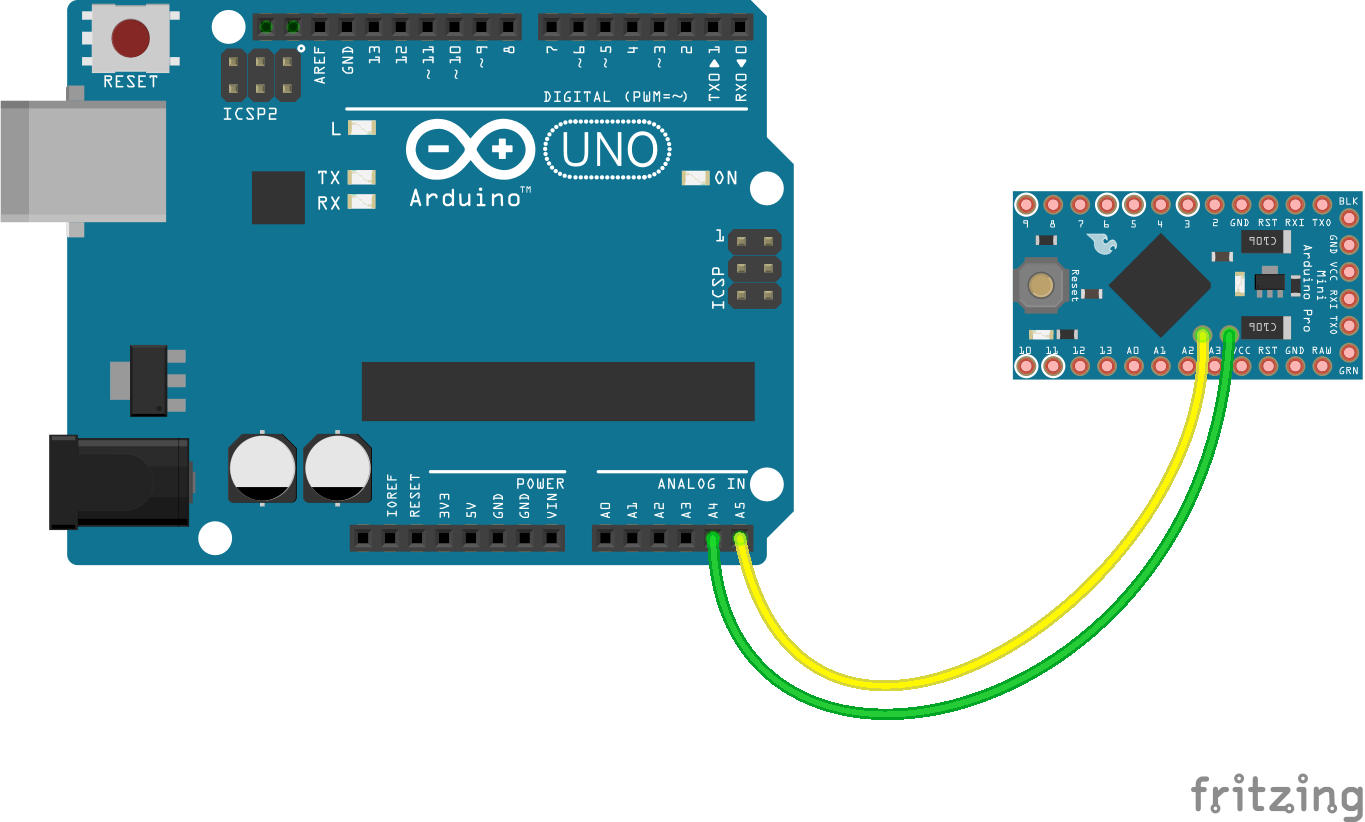
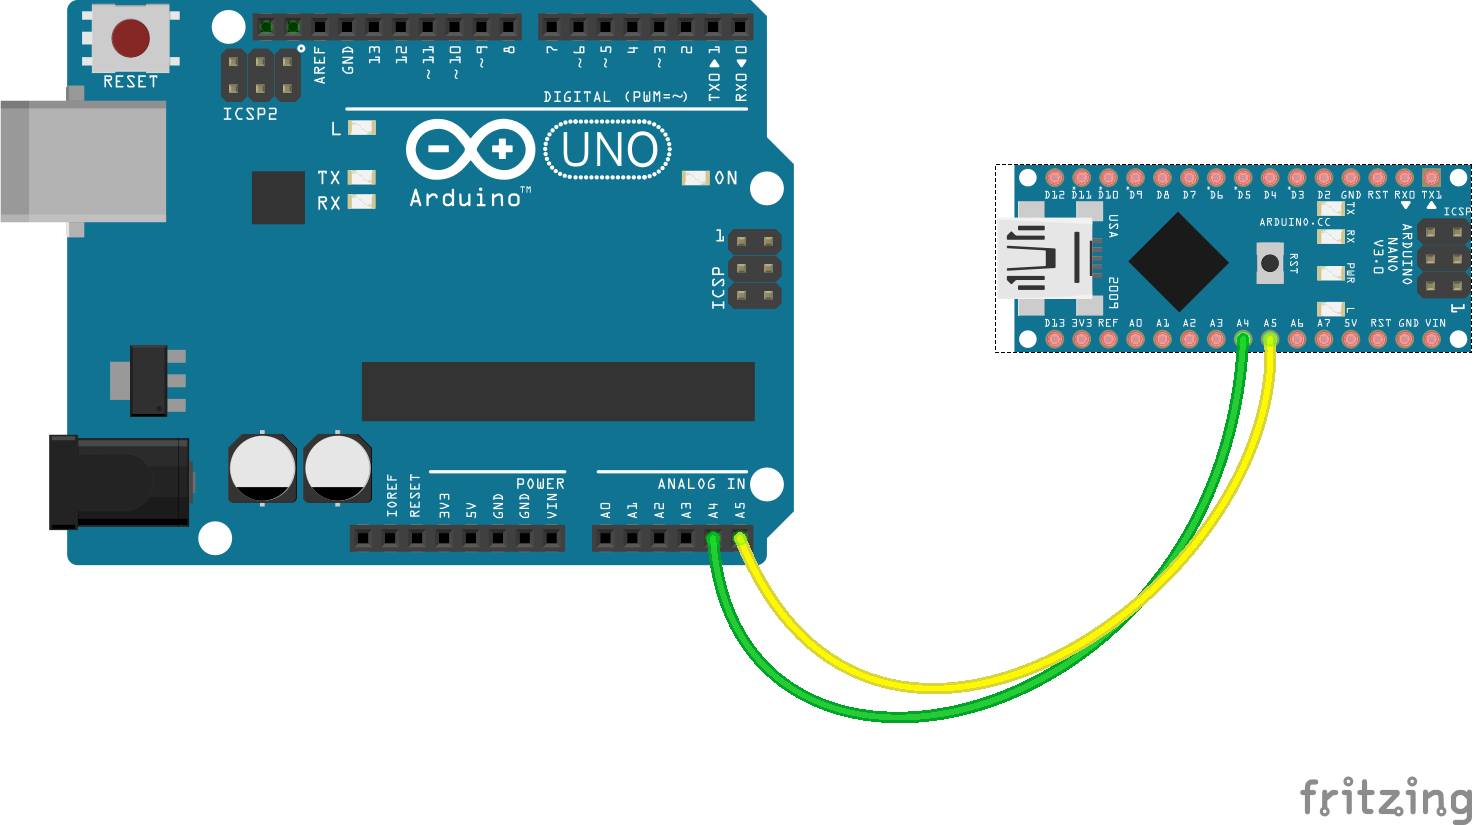
Finish up backpack blogpost

Changed region(s): [[0.0308, 0.0, 1.0, 0.882], [0.8615, 0.9428, 1.0, 1.0]]

diff --git a/_dist/2015/08/20/beginners-guide-to-backpacks/index.html b/_dist/2015/08/20/beginners-guide-to-backpacks/index.html
@@ -262,25 +262,25 @@ footer a { color: white; }
 
 <p>Backpacks are AVRs, or microcontollers, that run a special firmware designed to operate the component and communicate with Johnny-Five. The firmware is standard C++ or Arduino code with an additional layer for sending and receiving commands over I<sup>2</sup>C. Because much of the processing and data handling is done in Johnny-Five, this firmware tends to be much smaller than an equivalent program written entirely in C++. This means we can use much smaller AVRs.</p>
 
-<p>While many of these backpacks could be little more than an ATtiny85, smaller Arduinos like the Arduino Pro Mini or Arduino Nano are a little more user-friendly. You can get these Arduinos for as little as $3, you don’t have to worry about wiring, and you get a free Arduino-compatible bootloader.</p>
+<p>While many of these backpacks could be little more than an ATtiny85, smaller Arduinos like the Arduino Pro Mini or Arduino Nano are a little more user-friendly. You can get these Arduinos for as little as $2, you don’t have to worry about wiring, and you get a free Arduino-compatible bootloader.</p>
 
 <h2 id="why-backpacks">Why backpacks?</h2>
 
 <p>Historically things like NeoPixels and Ping sensors have required a custom version of Firmata, and were mostly not supported on platforms other than Arduino. If you had a project where you wanted NeoPixels <em>and</em> Ping sensors, you were stuck writing your own C++ library. Johnny-Five wants you to write JavaScript, not C++.</p>
 
-<p>With backpacks you’ll never need a custom Firmata, and your components will work on any platform that supports I<sup>2</sup>C (<a href="http://johnny-five.io/platform-support/">most of them do</a>). Each backpack has its own firmware, which means you can run as many different components as you can fit on an I<sup>2</sup>C bus–which is a lot.</p>
+<p>With backpacks you’ll never need a custom Firmata, and your components will work on any platform that supports I<sup>2</sup>C (<a href="http://johnny-five.io/platform-support/">most of them do</a>). Each backpack has its own firmware, which means you can run as many different components as you can fit on an I<sup>2</sup>C bus (which is a lot).</p>
 
 <h2 id="how-do-they-work">How do they work?</h2>
 
-<p>To demonstrate how backpacks work, let’s take a look at <a href="https://github.com/ajfisher/node-pixel">node-pixel</a>. Node-pixel is a library for controlling NeoPixels with JavaScript. It’s amazing. For this demo we’ll keep things simple and use an Arduino Uno as our host, and an Arduino Pro Mini as our backpack.</p>
+<p>To demonstrate how backpacks work, let’s take a look at <a href="https://github.com/ajfisher/node-pixel">node-pixel</a>. Node-pixel is a library for controlling NeoPixels with JavaScript. It’s amazing. For this demo we’ll keep things simple and use an Arduino Uno as our host, and an Arduino Nano as our backpack.</p>
 
 <h3 id="load-the-firmware">Load the firmware</h3>
 
-<p>First we need to load the firmware onto the backpack. If you’ve loaded a sketch onto and Arduino before, you know exactly what to do. In the Arduino IDE open <code>node-pixel/firmware/build/backpack/backpack.ino</code>, make sure you’ve got your board and port right, and upload the sketch.</p>
+<p>First we need to load the firmware onto the backpack. If you’ve loaded a sketch onto an Arduino before, you know exactly what to do. In the Arduino IDE open <code>node-pixel/firmware/build/backpack/backpack.ino</code>, make sure you’ve got your board and port right, and upload the sketch to the Arduino Nano.</p>
 
 <h3 id="attach-the-backpack">Attach the backpack</h3>
 
-<p>The next step is to wire up the backpack. First you need to connect I<sup>2</sup>C pins. Connect SDA on the host microcontroller to SCL on the backpack, then connect SCL on the host microcontroller to SDA on the backpack. On most Arduino and Arduino-compatible boards SDA is pin A4, and SCL is pin A5, but check the pinout for you board if you’re not sure.</p>
+<p>The next step is to wire up the backpack. First you need to connect I<sup>2</sup>C pins. Connect SDA on the host microcontroller to SDA on the backpack, then connect SCL on the host microcontroller to SCL on the backpack. On most Arduino and Arduino-compatible boards SDA is pin A4, and SCL is pin A5, but check the pinout for your board if you’re not sure.</p>
 
 <p><img src="/img/backpack/backpack_i2c.png" alt="Attach I2C Bus" /></p>
 
@@ -298,28 +298,28 @@ footer a { color: white; }
 
 <h3 id="run-your-program">Run your program</h3>
 
-<p>Now you’re ready to run your Johnny-Five program just like you’ve always done. We’ll use this for our demo:</p>
+<p>Now you’re ready to run your Johnny-Five program just like you’ve always done. Just make sure you have Johnny-Five and node-pixel installed (<code>npm install johnny-five node-pixel</code>). We’ll use this program for our demo:</p>
 
-<pre title="node-pixel demo"><code class="language-javascript">
+<pre title="pixel.js"><code class="language-javascript">
 var five = require("johnny-five");
 var pixel = require("node-pixel");
 
 var board = new five.Board();
 
-var fps = 20;
+var fps = 60;
 
 board.on("ready", function() {
 
     var strip = new pixel.Strip({
         data: 6,
-        length: 5,
+        length: 55,
         board: this,
         controller: "I2CBACKPACK"
     });
 
     strip.on("ready", function() {
 
-        var colors = ["red", "green", "blue", "yellow", "cyan", "magenta", "white"];
+        var colors = ["magenta"];
         var current_colors = [0,1,2,3,4];
         var current_pos = [0,1,2,3,4];
         var blinker = setInterval(function() {
@@ -341,9 +341,16 @@ board.on("ready", function() {
 
 <h3 id="et-voila">Et voila!</h3>
 
-<p>[video of neopixels neopixeling]</p>
+<p>Run <code>node pixel.js</code> and suddenly: NeoPixels controlled by JavaScript!</p>
+
+<iframe src="https://vine.co/v/eDpBOv39jvr/embed/simple" class="vine-embed" width="600" height="600" frameborder="0"></iframe>
+<script src="https://platform.vine.co/static/scripts/embed.js"></script>
+
+<p>And that, friends, is how backpacks work in the Johnny-Five ecosystem. If you have any questions about or want to contribute to a backpack-related project, join us in the <a href="https://gitter.im/ajfisher/nodebots-interchange">nodebots-interchange</a> Gitter channel.</p>
 
 <h2 id="current-backpacks">Current Backpacks</h2>
+
+<p>Check out these awesome backpacks made by awesome people:</p>
 
 <ul>
   <li><a href="https://github.com/ajfisher/node-pixel">node-pixel</a> by <a href="https://github.com/ajfisher">ajfisher</a></li>

diff --git a/_jekyll/_posts/2015-08-20-beginners-guide-to-backpacks.md b/_jekyll/_posts/2015-08-20-beginners-guide-to-backpacks.md
@@ -13,25 +13,25 @@ Johnny-Five is an asynchronous, event-based framework. Because of this there are
 
 Backpacks are AVRs, or microcontollers, that run a special firmware designed to operate the component and communicate with Johnny-Five. The firmware is standard C++ or Arduino code with an additional layer for sending and receiving commands over I<sup>2</sup>C. Because much of the processing and data handling is done in Johnny-Five, this firmware tends to be much smaller than an equivalent program written entirely in C++. This means we can use much smaller AVRs.
 
-While many of these backpacks could be little more than an ATtiny85, smaller Arduinos like the Arduino Pro Mini or Arduino Nano are a little more user-friendly. You can get these Arduinos for as little as $3, you don't have to worry about wiring, and you get a free Arduino-compatible bootloader.
+While many of these backpacks could be little more than an ATtiny85, smaller Arduinos like the Arduino Pro Mini or Arduino Nano are a little more user-friendly. You can get these Arduinos for as little as $2, you don't have to worry about wiring, and you get a free Arduino-compatible bootloader.
 
 ## Why backpacks?
 
 Historically things like NeoPixels and Ping sensors have required a custom version of Firmata, and were mostly not supported on platforms other than Arduino. If you had a project where you wanted NeoPixels *and* Ping sensors, you were stuck writing your own C++ library. Johnny-Five wants you to write JavaScript, not C++.
 
-With backpacks you'll never need a custom Firmata, and your components will work on any platform that supports I<sup>2</sup>C ([most of them do](http://johnny-five.io/platform-support/)). Each backpack has its own firmware, which means you can run as many different components as you can fit on an I<sup>2</sup>C bus--which is a lot.
+With backpacks you'll never need a custom Firmata, and your components will work on any platform that supports I<sup>2</sup>C ([most of them do](http://johnny-five.io/platform-support/)). Each backpack has its own firmware, which means you can run as many different components as you can fit on an I<sup>2</sup>C bus (which is a lot).
 
 ## How do they work?
 
-To demonstrate how backpacks work, let's take a look at [node-pixel](https://github.com/ajfisher/node-pixel). Node-pixel is a library for controlling NeoPixels with JavaScript. It's amazing. For this demo we'll keep things simple and use an Arduino Uno as our host, and an Arduino Pro Mini as our backpack.
+To demonstrate how backpacks work, let's take a look at [node-pixel](https://github.com/ajfisher/node-pixel). Node-pixel is a library for controlling NeoPixels with JavaScript. It's amazing. For this demo we'll keep things simple and use an Arduino Uno as our host, and an Arduino Nano as our backpack.
 
 ### Load the firmware
 
-First we need to load the firmware onto the backpack. If you've loaded a sketch onto and Arduino before, you know exactly what to do. In the Arduino IDE open `node-pixel/firmware/build/backpack/backpack.ino`, make sure you've got your board and port right, and upload the sketch.
+First we need to load the firmware onto the backpack. If you've loaded a sketch onto an Arduino before, you know exactly what to do. In the Arduino IDE open `node-pixel/firmware/build/backpack/backpack.ino`, make sure you've got your board and port right, and upload the sketch to the Arduino Nano.
 
 ### Attach the backpack
 
-The next step is to wire up the backpack. First you need to connect I<sup>2</sup>C pins. Connect SDA on the host microcontroller to SCL on the backpack, then connect SCL on the host microcontroller to SDA on the backpack. On most Arduino and Arduino-compatible boards SDA is pin A4, and SCL is pin A5, but check the pinout for you board if you're not sure.
+The next step is to wire up the backpack. First you need to connect I<sup>2</sup>C pins. Connect SDA on the host microcontroller to SDA on the backpack, then connect SCL on the host microcontroller to SCL on the backpack. On most Arduino and Arduino-compatible boards SDA is pin A4, and SCL is pin A5, but check the pinout for your board if you're not sure.
 
 ![Attach I2C Bus](/img/backpack/backpack_i2c.png)
 
@@ -49,28 +49,28 @@ All we have left to do is attach data to a pin on the backpack, and hook up (ext
 
 ### Run your program
 
-Now you're ready to run your Johnny-Five program just like you've always done. We'll use this for our demo:
+Now you're ready to run your Johnny-Five program just like you've always done. Just make sure you have Johnny-Five and node-pixel installed (`npm install johnny-five node-pixel`). We'll use this program for our demo:
 
-<pre title="node-pixel demo"><code class="language-javascript">
+<pre title="pixel.js"><code class="language-javascript">
 var five = require("johnny-five");
 var pixel = require("node-pixel");
 
 var board = new five.Board();
 
-var fps = 20;
+var fps = 60;
 
 board.on("ready", function() {
 
     var strip = new pixel.Strip({
         data: 6,
-        length: 5,
+        length: 55,
         board: this,
         controller: "I2CBACKPACK"
     });
 
     strip.on("ready", function() {
 
-        var colors = ["red", "green", "blue", "yellow", "cyan", "magenta", "white"];
+        var colors = ["magenta"];
         var current_colors = [0,1,2,3,4];
         var current_pos = [0,1,2,3,4];
         var blinker = setInterval(function() {
@@ -92,9 +92,15 @@ board.on("ready", function() {
 
 ### Et voila!
 
-[video of neopixels neopixeling]
+Run `node pixel.js` and suddenly: NeoPixels controlled by JavaScript!
+
+<iframe src="https://vine.co/v/eDpBOv39jvr/embed/simple" class="vine-embed" width="600" height="600" frameborder="0"></iframe><script src="https://platform.vine.co/static/scripts/embed.js"></script>
+
+And that, friends, is how backpacks work in the Johnny-Five ecosystem. If you have any questions about or want to contribute to a backpack-related project, join us in the [nodebots-interchange](https://gitter.im/ajfisher/nodebots-interchange) Gitter channel.
 
 ## Current Backpacks
+
+Check out these awesome backpacks made by awesome people:
 
 * [node-pixel](https://github.com/ajfisher/node-pixel) by [ajfisher](https://github.com/ajfisher)
 * [DSTouch](https://github.com/rwaldron/j5-ds-touch) by [rwaldron](https://github.com/rwaldron)
